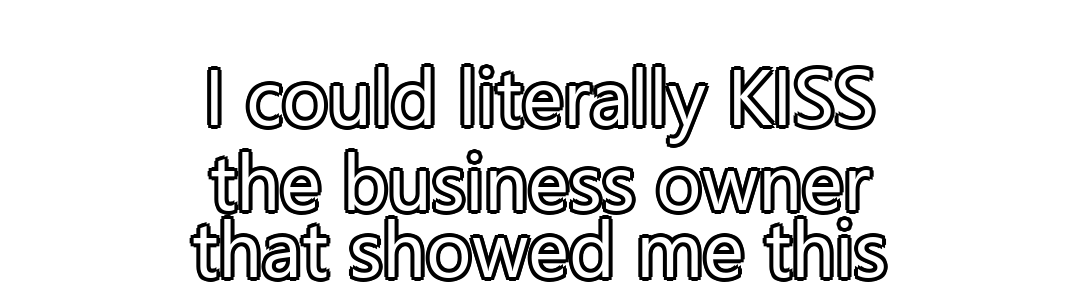
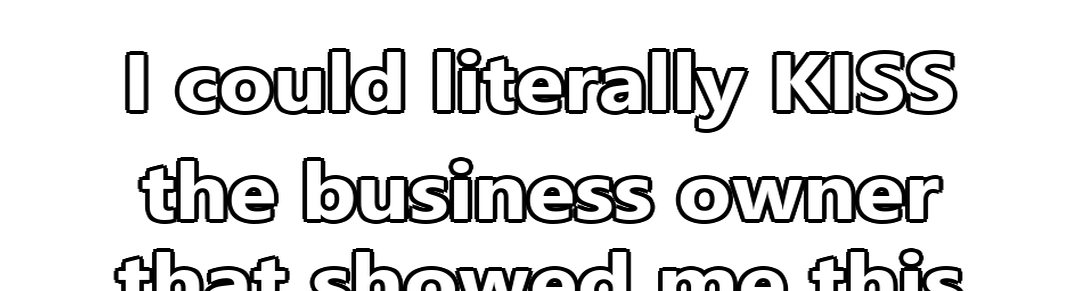
Add six hook lines and render text wider with bold System font.
- Add six new marketing hook captions to the random overlay pool.
- Switch to Segoe UI Bold with horizontal stretch so hook text reads thicker on video.

Changed region(s): [[0.0917, 0.4948, 0.9167, 1.0], [0.0917, 0.1546, 0.8861, 0.5258]]

diff --git a/scripts/generate_hooks_text.py b/scripts/generate_hooks_text.py
@@ -19,6 +19,12 @@ HOOK_LINES = [
     "This feels illegal to know",
     "My secret AI stack revealed",
     "AI on steroids",
+    "Feels like bitcoin in 2009",
+    "How this is legal ??",
+    "Got fired by my agency so i'm leaking their ENTIRE process",
+    "How is this website even legal",
+    "I'm so bad at marketing .. do this instead",
+    "How on earth is this legal ?!",
 ]
 
 WIDTH = 1080
@@ -27,6 +33,21 @@ H_PADDING = 40
 V_PADDING = 40
 MAX_FONT_SIZE = 78
 MIN_FONT_SIZE = 44
+TEXT_SCALE_X = 1.14
+STROKE_OFFSETS = (
+    (-4, 0),
+    (4, 0),
+    (0, -4),
+    (0, 4),
+    (-3, -3),
+    (3, -3),
+    (-3, 3),
+    (3, 3),
+    (-2, -2),
+    (2, -2),
+    (-2, 2),
+    (2, 2),
+)
 
 
 def _slug(text: str) -> str:
@@ -35,18 +56,19 @@ def _slug(text: str) -> str:
 
 
 def _font(size: int) -> ImageFont.FreeTypeFont | ImageFont.ImageFont:
-    """Prefer the OS system UI font (Segoe UI on Windows)."""
+    """Prefer the OS system UI bold font (Segoe UI Bold on Windows)."""
     candidates = [
+        Path("C:/Windows/Fonts/segoeuib.ttf"),
         Path("C:/Windows/Fonts/segoeui.ttf"),
+        Path("/System/Library/Fonts/Supplemental/Arial Bold.ttf"),
         Path("/System/Library/Fonts/Supplemental/Arial.ttf"),
-        Path("/System/Library/Fonts/Helvetica.ttc"),
-        Path("/usr/share/fonts/truetype/dejavu/DejaVuSans.ttf"),
+        Path("/usr/share/fonts/truetype/dejavu/DejaVuSans-Bold.ttf"),
     ]
     for path in candidates:
         if path.is_file():
             return ImageFont.truetype(str(path), size)
 
-    for name in ("segoeui.ttf", "Segoe UI.ttf", "arial.ttf"):
+    for name in ("segoeuib.ttf", "Segoe UI Bold.ttf", "segoeui.ttf", "arialbd.ttf"):
         try:
             return ImageFont.truetype(name, size)
         except OSError:
@@ -67,31 +89,36 @@ def _wrap_lines(text: str, font: ImageFont.FreeTypeFont | ImageFont.ImageFont) -
     return textwrap.wrap(text, width=10)
 
 
+def _line_size(line: str, font: ImageFont.FreeTypeFont | ImageFont.ImageFont) -> tuple[int, int]:
+    probe = Image.new("RGBA", (1, 1), (0, 0, 0, 0))
+    draw = ImageDraw.Draw(probe)
+    bbox = draw.textbbox((0, 0), line, font=font)
+    width = int((bbox[2] - bbox[0]) * TEXT_SCALE_X)
+    height = bbox[3] - bbox[1]
+    return width, height
+
+
 def _measure_block(
     lines: list[str],
     font: ImageFont.FreeTypeFont | ImageFont.ImageFont,
-    draw: ImageDraw.ImageDraw,
 ) -> tuple[int, int]:
     max_w = 0
     total_h = 0
     line_gap = 8
     for index, line in enumerate(lines):
-        bbox = draw.textbbox((0, 0), line, font=font)
-        max_w = max(max_w, bbox[2] - bbox[0])
-        total_h += bbox[3] - bbox[1]
+        line_w, line_h = _line_size(line, font)
+        max_w = max(max_w, line_w)
+        total_h += line_h
         if index < len(lines) - 1:
             total_h += line_gap
     return max_w, total_h
 
 
 def _layout(text: str) -> tuple[ImageFont.FreeTypeFont | ImageFont.ImageFont, list[str]]:
-    probe = Image.new("RGBA", (WIDTH, MAX_HEIGHT), (0, 0, 0, 0))
-    draw = ImageDraw.Draw(probe)
-
     for size in range(MAX_FONT_SIZE, MIN_FONT_SIZE - 1, -2):
         font = _font(size)
         lines = _wrap_lines(text, font)
-        block_w, block_h = _measure_block(lines, font, draw)
+        block_w, block_h = _measure_block(lines, font)
         if block_w <= WIDTH - H_PADDING * 2 and block_h <= MAX_HEIGHT - V_PADDING * 2:
             return font, lines
 
@@ -99,40 +126,40 @@ def _layout(text: str) -> tuple[ImageFont.FreeTypeFont | ImageFont.ImageFont, li
     return font, _wrap_lines(text, font)
 
 
+def _render_line(line: str, font: ImageFont.FreeTypeFont | ImageFont.ImageFont) -> Image.Image:
+    probe = Image.new("RGBA", (1, 1), (0, 0, 0, 0))
+    draw = ImageDraw.Draw(probe)
+    bbox = draw.textbbox((0, 0), line, font=font)
+    tw = bbox[2] - bbox[0]
+    th = bbox[3] - bbox[1]
+    pad = 12
+
+    layer = Image.new("RGBA", (tw + pad * 2, th + pad * 2), (0, 0, 0, 0))
+    draw = ImageDraw.Draw(layer)
+    x = pad - bbox[0]
+    y = pad - bbox[1]
+
+    for dx, dy in STROKE_OFFSETS:
+        draw.text((x + dx, y + dy), line, font=font, fill=(0, 0, 0, 255))
+    draw.text((x, y), line, font=font, fill=(255, 255, 255, 255))
+
+    stretched_w = max(1, int(layer.width * TEXT_SCALE_X))
+    return layer.resize((stretched_w, layer.height), Image.Resampling.LANCZOS)
+
+
 def _draw_label(text: str, dest: Path) -> None:
     font, lines = _layout(text)
-    probe = Image.new("RGBA", (WIDTH, MAX_HEIGHT), (0, 0, 0, 0))
-    draw = ImageDraw.Draw(probe)
-    _, block_h = _measure_block(lines, font, draw)
+    _, block_h = _measure_block(lines, font)
 
     img = Image.new("RGBA", (WIDTH, block_h + V_PADDING * 2), (0, 0, 0, 0))
-    draw = ImageDraw.Draw(img)
     line_gap = 8
     y = V_PADDING
 
     for line in lines:
-        bbox = draw.textbbox((0, 0), line, font=font)
-        tw = bbox[2] - bbox[0]
-        th = bbox[3] - bbox[1]
-        x = (WIDTH - tw) // 2
-
-        for dx, dy in (
-            (-4, 0),
-            (4, 0),
-            (0, -4),
-            (0, 4),
-            (-3, -3),
-            (3, -3),
-            (-3, 3),
-            (3, 3),
-            (-2, -2),
-            (2, -2),
-            (-2, 2),
-            (2, 2),
-        ):
-            draw.text((x + dx, y + dy), line, font=font, fill=(0, 0, 0, 255))
-        draw.text((x, y), line, font=font, fill=(255, 255, 255, 255))
-        y += th + line_gap
+        line_img = _render_line(line, font)
+        x = (WIDTH - line_img.width) // 2
+        img.alpha_composite(line_img, (x, y))
+        y += line_img.height + line_gap
 
     dest.parent.mkdir(parents=True, exist_ok=True)
     img.save(dest, "PNG")
